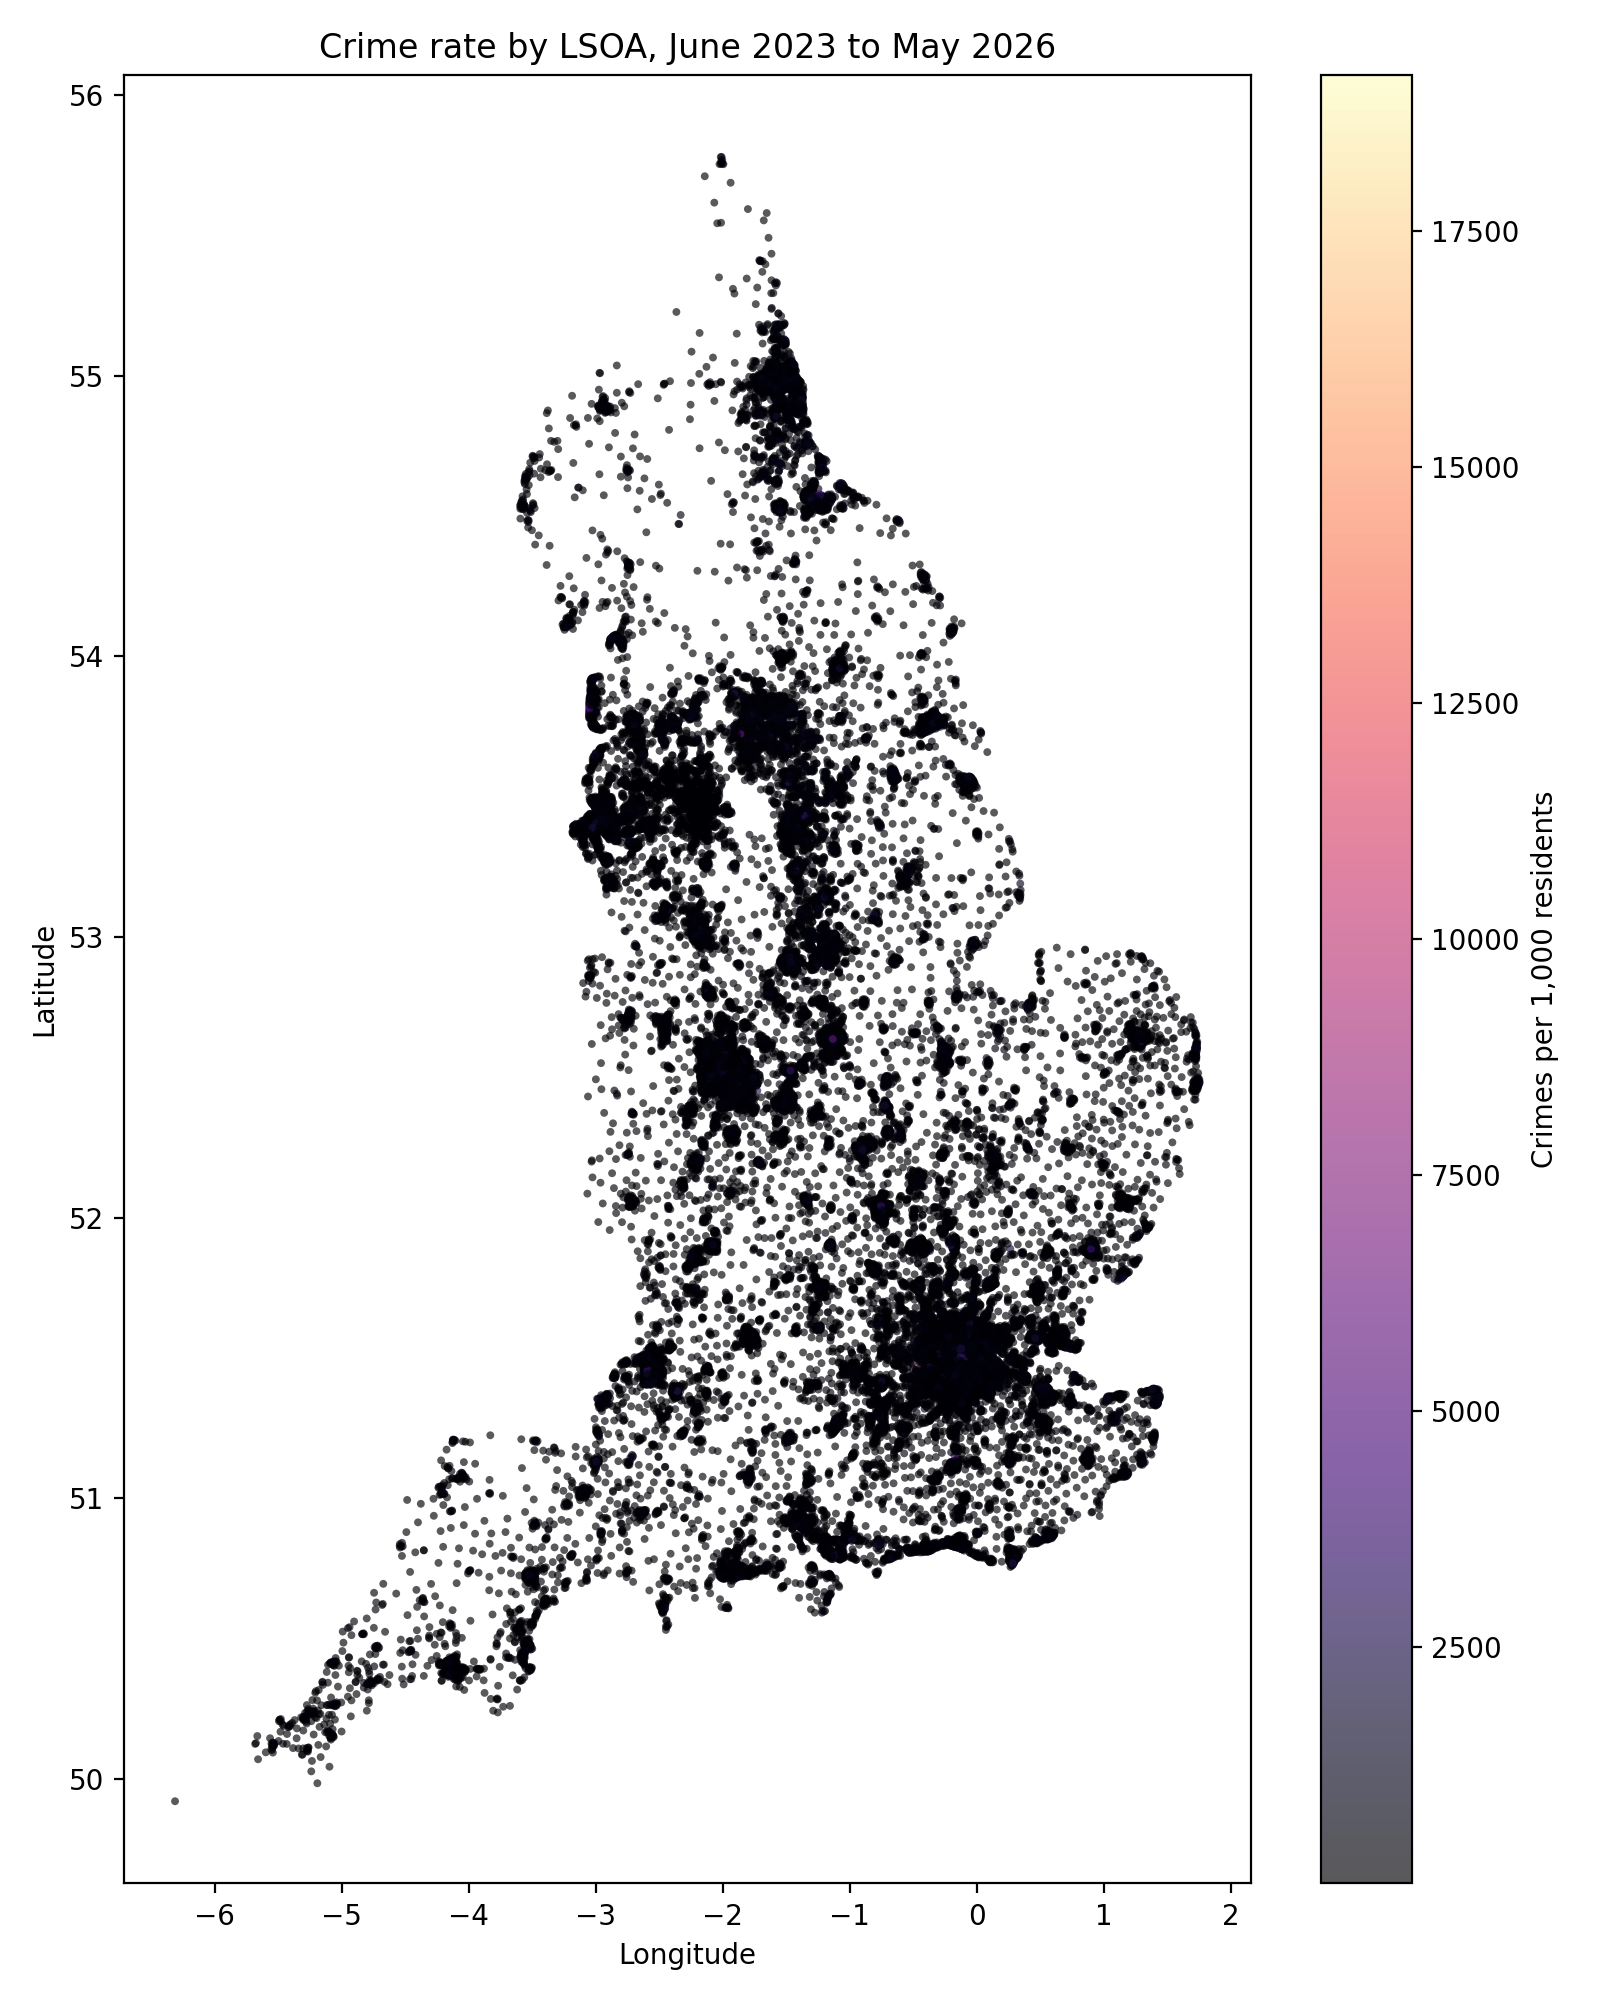
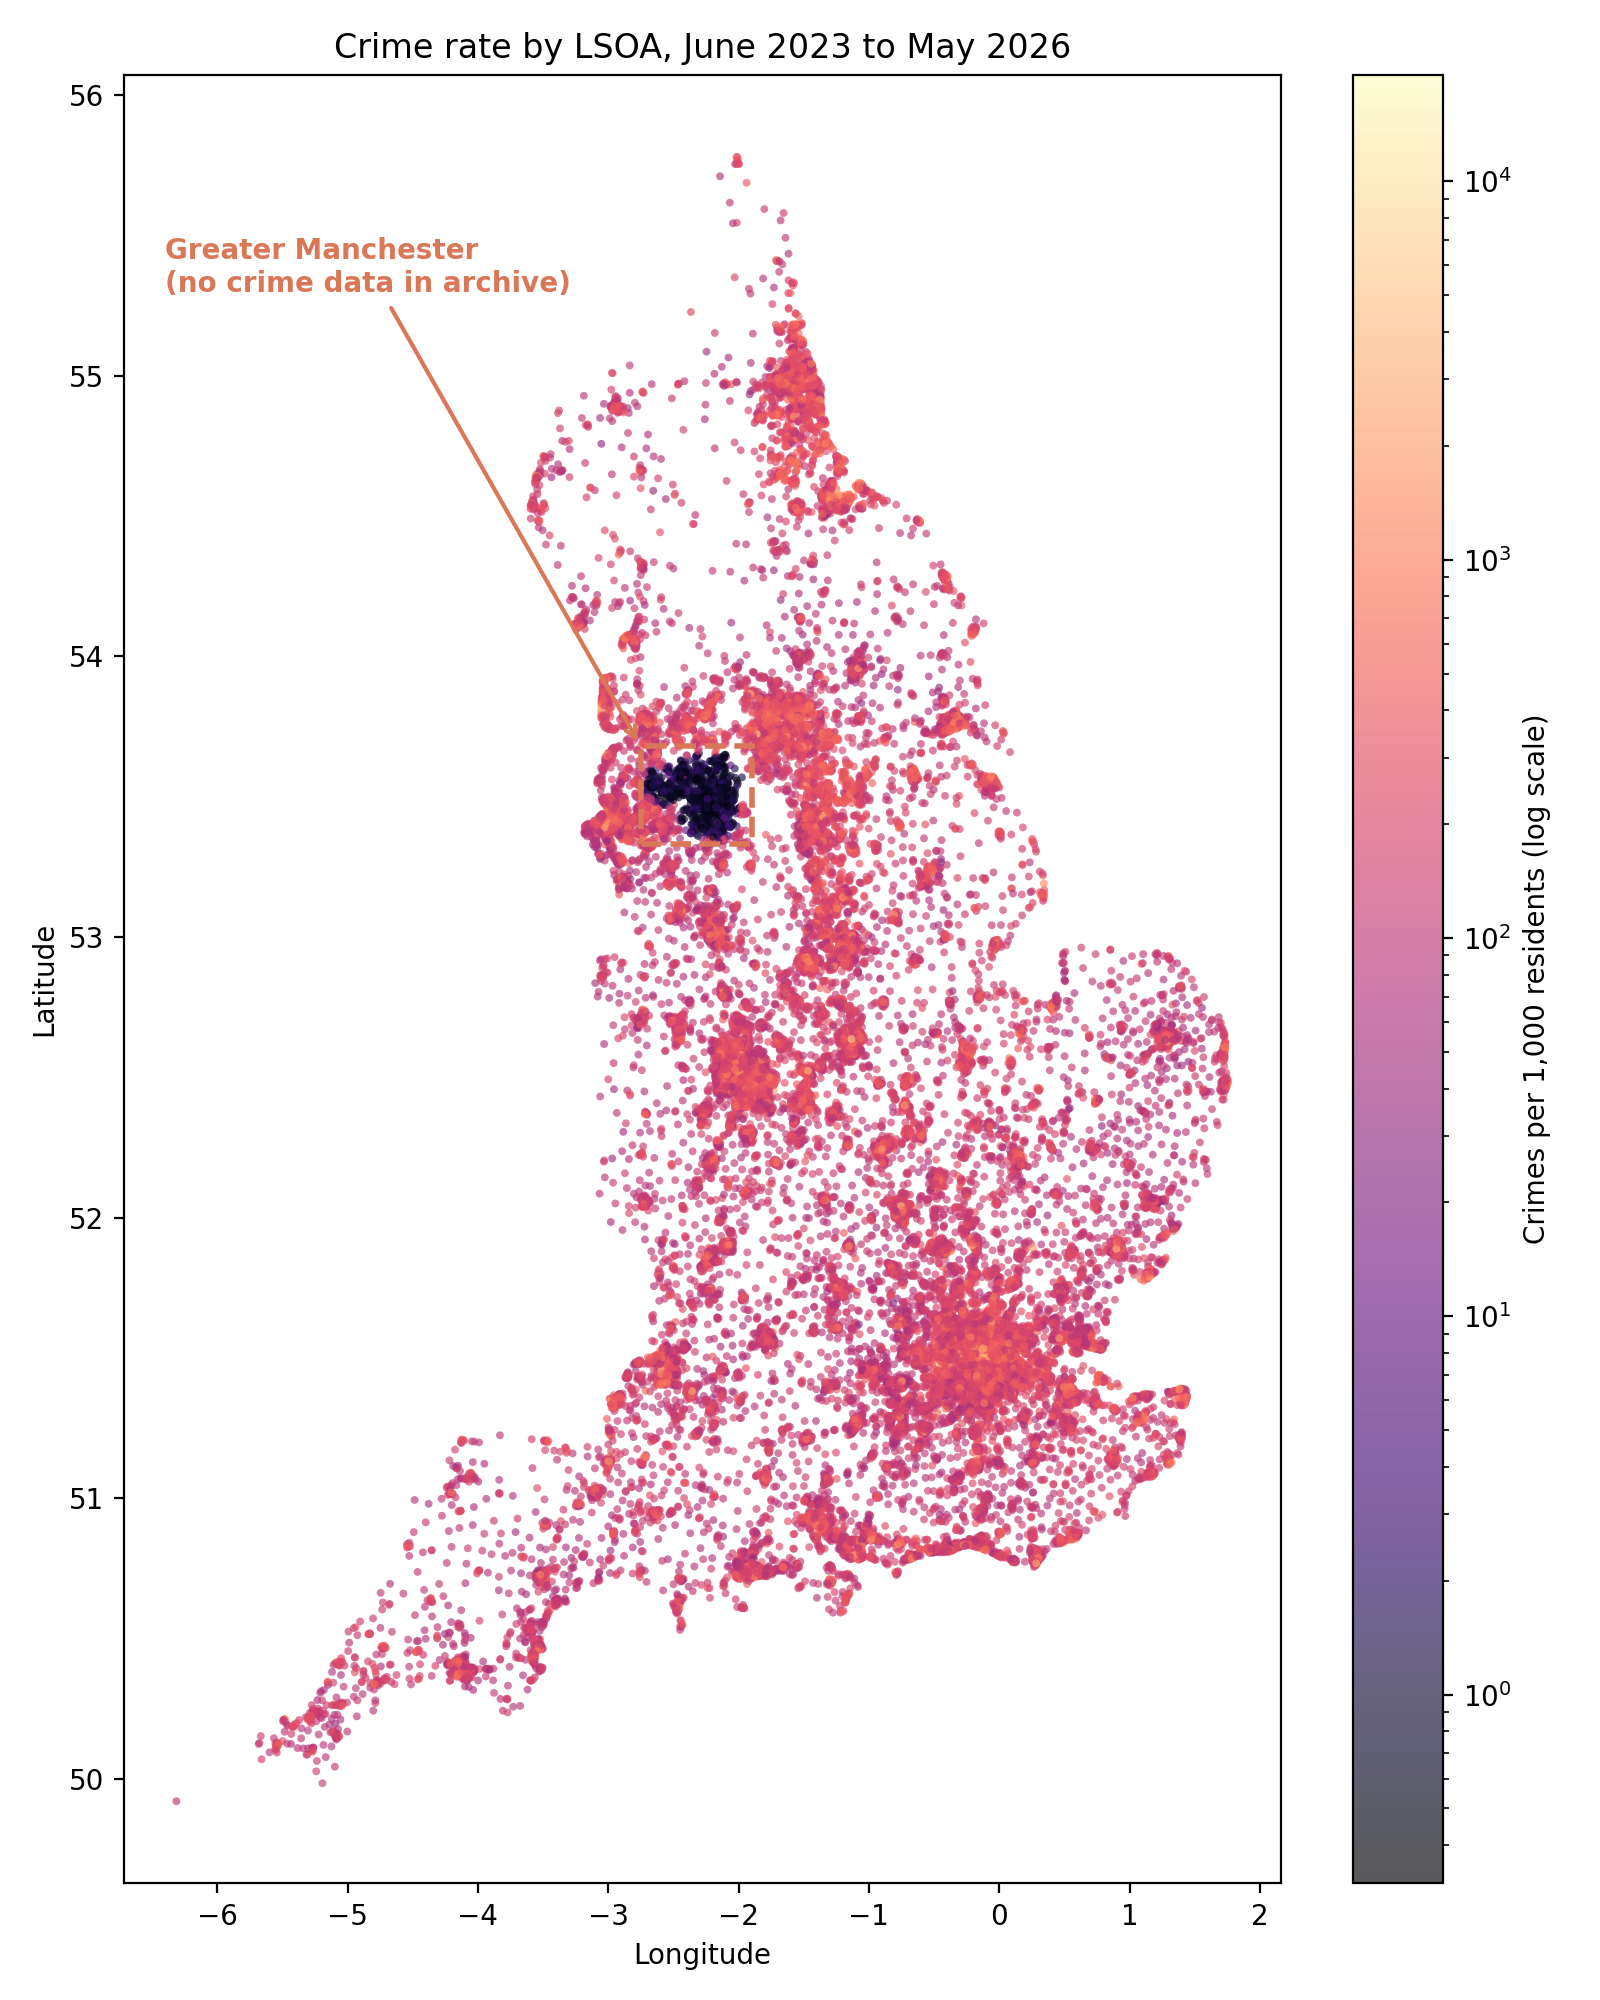
Fix crime rate map colour scale and mark Greater Manchester gap on both maps
Crime rate is heavily right skewed, a linear colour scale compressed nearly
every LSOA into the bottom of the range so the map read as uniformly dark
regardless of true value. Switched to a log scale colourbar.

Added a dashed box and label to both the crime rate and deprivation maps
marking Greater Manchester directly, since the archive has no crime data
for that force and the map alone does not distinguish that from genuinely
low crime.

diff --git a/src/visualise.py b/src/visualise.py
@@ -8,6 +8,7 @@ import matplotlib.pyplot as plt
 import pandas as pd
 import seaborn as sns
 from folium.plugins import HeatMap
+from matplotlib.colors import LogNorm
 
 from config import load_settings, repo_path
 
@@ -40,32 +41,77 @@ def clean_for_plots(data: pd.DataFrame) -> pd.DataFrame:
     return plot_data.dropna(subset=["crime_rate_per_1000", "imd_score", "imd_decile"])
 
 
+# Approximate bounding box for Greater Manchester's 10 boroughs (Wigan west
+# to Oldham/Tameside east, Bolton/Bury/Rochdale north to Stockport/Trafford
+# south), used to mark the data gap directly on the LSOA maps so it reads on
+# the slide without a separate spoken caveat. GM has no street-level file in
+# the archive (see docs/08_limitations.md), so it is dark/blank on the crime
+# map and unremarkable on the deprivation map: the annotation is what makes
+# that contrast legible at a glance.
+GM_BOUNDS = {"lon_min": -2.75, "lon_max": -1.90, "lat_min": 53.33, "lat_max": 53.68}
+
+
+def _annotate_greater_manchester(ax, label: str) -> None:
+    from matplotlib.patches import Rectangle
+
+    box = Rectangle(
+        (GM_BOUNDS["lon_min"], GM_BOUNDS["lat_min"]),
+        GM_BOUNDS["lon_max"] - GM_BOUNDS["lon_min"],
+        GM_BOUNDS["lat_max"] - GM_BOUNDS["lat_min"],
+        fill=False,
+        edgecolor="#D97757",
+        linewidth=2,
+        linestyle="--",
+        zorder=5,
+    )
+    ax.add_patch(box)
+    ax.annotate(
+        label,
+        xy=(GM_BOUNDS["lon_min"], GM_BOUNDS["lat_max"]),
+        xytext=(-6.4, 55.3),
+        fontsize=10,
+        fontweight="bold",
+        color="#D97757",
+        ha="left",
+        arrowprops={"arrowstyle": "->", "color": "#D97757", "linewidth": 1.5},
+        zorder=6,
+    )
+
+
 def save_crime_rate_map(data: pd.DataFrame, figures_dir: Path) -> Path:
     output = figures_dir / "crime_rate_lsoa_map.png"
-    plt.figure(figsize=(8, 10))
-    scatter = plt.scatter(
+    fig, ax = plt.subplots(figsize=(8, 10))
+    # Crime rate is heavily right-skewed (median 204, max 19,159 per 1,000), so a
+    # linear colour scale compresses almost every LSOA into the bottom sliver of
+    # the range and the whole map reads as black regardless of true value. A log
+    # scale spreads the typical range out so genuine variation is visible. Floor
+    # at 0.1 rather than 0 since LogNorm cannot colour a true zero.
+    rate = data["crime_rate_per_1000"].clip(lower=0.1)
+    scatter = ax.scatter(
         data["avg_longitude"],
         data["avg_latitude"],
-        c=data["crime_rate_per_1000"],
+        c=rate,
         s=8,
         cmap="magma",
+        norm=LogNorm(vmin=rate.min(), vmax=rate.max(), clip=True),
         alpha=0.65,
         linewidths=0,
     )
-    plt.colorbar(scatter, label="Crimes per 1,000 residents")
-    plt.title("Crime rate by LSOA, June 2023 to May 2026")
-    plt.xlabel("Longitude")
-    plt.ylabel("Latitude")
-    plt.tight_layout()
-    plt.savefig(output, dpi=200)
-    plt.close()
+    fig.colorbar(scatter, label="Crimes per 1,000 residents (log scale)")
+    _annotate_greater_manchester(ax, "Greater Manchester\n(no crime data in archive)")
+    ax.set_title("Crime rate by LSOA, June 2023 to May 2026")
+    ax.set_xlabel("Longitude")
+    ax.set_ylabel("Latitude")
+    fig.tight_layout()
+    fig.savefig(output, dpi=200)
+    plt.close(fig)
     return output
 
 
 def save_deprivation_map(data: pd.DataFrame, figures_dir: Path) -> Path:
     output = figures_dir / "iod2025_deprivation_lsoa_map.png"
-    plt.figure(figsize=(8, 10))
-    scatter = plt.scatter(
+    fig, ax = plt.subplots(figsize=(8, 10))
+    scatter = ax.scatter(
         data["avg_longitude"],
         data["avg_latitude"],
         c=data["imd_decile"],
@@ -74,13 +120,14 @@ def save_deprivation_map(data: pd.DataFrame, figures_dir: Path) -> Path:
         alpha=0.65,
         linewidths=0,
     )
-    plt.colorbar(scatter, label="IoD 2025 decile, 1 is most deprived")
-    plt.title("IoD 2025 deprivation by LSOA")
-    plt.xlabel("Longitude")
-    plt.ylabel("Latitude")
-    plt.tight_layout()
-    plt.savefig(output, dpi=200)
-    plt.close()
+    fig.colorbar(scatter, label="IoD 2025 decile, 1 is most deprived")
+    _annotate_greater_manchester(ax, "Greater Manchester\n(deprivation data present, unremarkable)")
+    ax.set_title("IoD 2025 deprivation by LSOA")
+    ax.set_xlabel("Longitude")
+    ax.set_ylabel("Latitude")
+    fig.tight_layout()
+    fig.savefig(output, dpi=200)
+    plt.close(fig)
     return output
 
 
